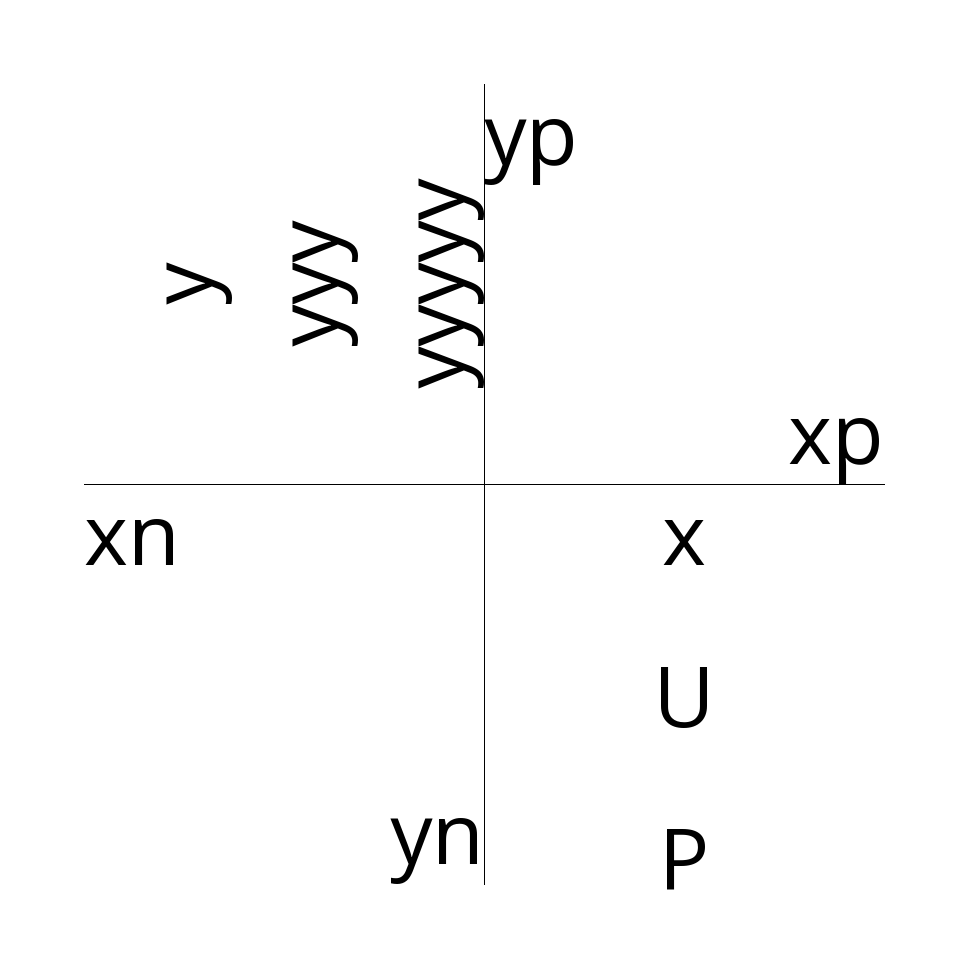
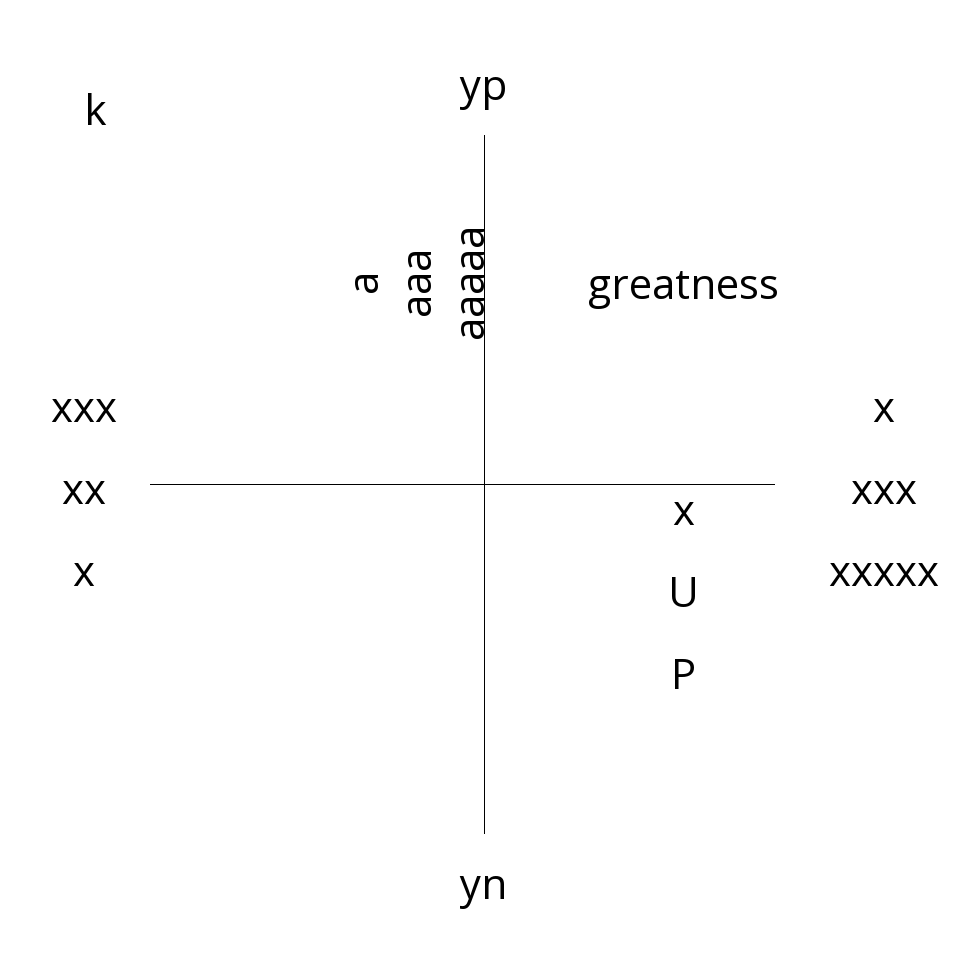
dynamic line positions

diff --git a/main.py b/main.py
@@ -153,7 +153,7 @@ async def line_PIL(xyxy, margin, PILdraw):
                       fill=FONT_COLOR)
 
 
-async def text_PIL(xy, text, wrapWidth, anchor, font, margin, PILimage):
+async def text_PIL(xy, text, wrapSpan, anchor, font, margin, PILimage):
     async def text_PIL_base(xy, text, font, margin):
         with Pilmoji(PILimage) as pilmoji:
             pilmoji.text((int(xy[0]) + margin, int(xy[1]) + margin),
@@ -163,30 +163,31 @@ async def text_PIL(xy, text, wrapWidth, anchor, font, margin, PILimage):
 
     # Initialize lists to hold the wrapped lines and their heights
     wrappedLines = []
-    lineHeights = []
-    lineWidths = []
+    lineDists = []
+    lineSpans = []
+
+    (getspan, getdist) = {'h': (getw, geth), 'v': (geth, getw)}[anchor[0]]
 
     async def appendwrap(text):
+        lineDists.append(await getdist(text, font))
+        lineSpans.append(await getspan(text, font))
         wrappedLines.append(text)
-        lineHeights.append(await geth(text, font))
-        lineWidths.append(await getw(text, font))
 
-    accumulatedWidth = 0
+    span = 0
     lasti = 0
     for i in range(len(text)):
-
         if text[i] == '\n':
             await appendwrap(text[lasti:i].strip("\n").strip(" "))
             await appendwrap('\n')
             lasti = i + 1
-            accumulatedWidth = 0
+            span = 0
 
-        elif accumulatedWidth + await getw(text[i], font) < wrapWidth:
-            accumulatedWidth += await getw(text[i], font)
+        elif span + await getspan(text[i], font) < wrapSpan:
+            span += await getspan(text[i], font)
 
         else:
             # If there's only one word on the line, wrap the line before this character
-            accumulatedWidth = 0
+            span = 0
             if len(text[lasti:i].strip(" ").split(" ")) < 2:
                 await appendwrap(text[lasti:i].strip(" "))
                 lasti = i
@@ -199,32 +200,30 @@ async def text_PIL(xy, text, wrapWidth, anchor, font, margin, PILimage):
     await appendwrap(text[lasti:].strip(" "))
 
     # Positioning for starting position of first line of text
-    totalheight = sum(lineHeights)
-    totalwidth = sum(lineWidths)
+    totalDist = sum(lineDists)
     x, y = {
         'h-': xy,
-        'h0': (xy[0], xy[1] - totalheight / 2),
-        'h+': (xy[0], xy[1] - totalheight),
+        'h0': (xy[0], xy[1] - totalDist / 2),
+        'h+': (xy[0], xy[1] - totalDist),
         'v-': xy,
-        'v0': (xy[0] - totalwidth / 2, xy[1]),
-        'v+': (xy[0] - totalwidth, xy[1])
+        'v0': (xy[0] - totalDist / 2, xy[1]),
+        'v+': (xy[0] - totalDist, xy[1])
     }[anchor[0] + anchor[2]]
 
     # Positioning for each line of text
     for i in range(len(wrappedLines)):
         await text_PIL_base({
-            'h+': (x, y + sum(lineHeights[:i])),
-            'h0': (x - await getw(wrappedLines[i], font) / 2,
-                   y + sum(lineHeights[:i])),
-            'h-': (x - await getw(wrappedLines[i], font),
-									 y + sum(lineHeights[:i])),
-            'v+': (x + sum(lineWidths[:i]), y),
-            'v0': (x + sum(lineWidths[:i]),
-                   y - await geth(wrappedLines[i], font) / 2),
-            'v-': (x + sum(lineWidths[:i]),
-									 y - await geth(wrappedLines[i], font))
+            'h+': (x, y + sum(lineDists[:i])),
+            'h0': (x - lineSpans[i] / 2, y + sum(lineDists[:i])),
+            'h-': (x - lineSpans[i], y + sum(lineDists[:i])),
+            'v+': (x + sum(lineDists[:i]), y),
+            'v0': (x + sum(lineDists[:i]), y - lineSpans[i] / 2),
+            'v-': (x + sum(lineDists[:i]), y - lineSpans[i])
         }[anchor[0] + anchor[1]], wrappedLines[i], font, margin)
     pass
+    
+    return (max(lineSpans), totalDist)
+
 
 
 ####	PIL interface and helpers END ####
@@ -236,6 +235,10 @@ tbt_OPTIONS = [[
     'x:str', 'y:str', 't:str'
 ], ['fontsize:int', 'margin:int']]
 
+tbt_EXE = [
+    [3, 1, 1, 'CW', 'h00'], [1, 1, 1, 'CW', 'h00'], [1, 3, 1, 'CW', 'h00'], [3, 3, 1, 'CW', 'h00'], [4, 2, 1, 'CW', 'h00'], [0, 2, 1, 'CW', 'h00'], [2, 0, 1, 'CW', 'h00'], [2, 4, 1, 'CW', 'h00'], [3, 2, 0, 'CW', 'h0-'], [2, 1, 0, 'CH', 'v0+'], [0, 0, 1, 'CW', 'h+-']
+]
+
 
 async def tbt_tofile(infras):
     infras[1] = [await typedispatchstrict(item) for item in infras[1]]
@@ -246,9 +249,9 @@ async def tbt_tofile(infras):
         infras[1][0], infras[1][1])
 
     # interfaces
-    async def text(xy, text, wrapWidth, anchor, font=font):
+    async def text(xy, text, wrapSpan, anchor, font=font):
         if (text):
-            await text_PIL(xy, str(text), wrapWidth, anchor,
+            return await text_PIL(xy, str(text), wrapSpan, anchor,
                            font90 if anchor[0] == "v" else font, infras[1][1],
                            PILimage)
 
@@ -257,8 +260,8 @@ async def tbt_tofile(infras):
             await line_PIL(xyxy, infras[1][1], PILdraw)
 
     # macros
-    def C44(x, y):
-        return (CW(x, 4), CH(y, 4))
+    def C44(x, y, bx=0, by=0):
+        return (CW(x, 4, bx), CH(y, 4, by))
 
     def FD2(fit, dir):
         return FITS[fit] * dir(1, 2)
@@ -267,26 +270,19 @@ async def tbt_tofile(infras):
         return any([infras[0][i] for i in list])
 
     # micros
-    def CW(n, d):
-        return WIDTH * n / d
+    def CW(n, d, bias=0):
+        return WIDTH * n / d + bias
 
-    def CH(n, d):
-        return HEIGHT * n / d
+    def CH(n, d, bias=0):
+        return HEIGHT * n / d + bias
 
-    # executions
-    await text(C44(3, 1), infras[0][0], FD2(1, CW), 'h00')
-    await text(C44(1, 1), infras[0][1], FD2(1, CW), 'h00')
-    await text(C44(1, 3), infras[0][2], FD2(1, CW), 'h00')
-    await text(C44(3, 3), infras[0][3], FD2(1, CW), 'h00')
-    await text(C44(4, 2), infras[0][4], FD2(1, CW), 'h-+')
-    await text(C44(0, 2), infras[0][5], FD2(1, CW), 'h+-')
-    await text(C44(2, 0), infras[0][6], FD2(1, CW), 'h+-')
-    await text(C44(2, 4), infras[0][7], FD2(1, CW), 'h-+')
-    await text(C44(3, 2), infras[0][8], FD2(0, CW), 'h0-')
-    await text(C44(2, 1), infras[0][9], FD2(0, CH), 'v0+')
-    await text(C44(0, 0), infras[0][10], FD2(1, CW), 'h+-')
-    await line(C44(0, 2) + C44(4, 2), DANY([5, 7, 8]))
-    await line(C44(2, 0) + C44(2, 4), DANY([4, 6, 9]))
+    # execution
+    b = []
+    for i, p in enumerate(tbt_EXE):
+        b.append (await text(C44(p[0], p[1]), infras[0][i], FD2(p[2], eval(p[3])), p[4]))
+  
+    await line(C44(0, 2, bx=b[5][0]) + C44(4, 2, bx=-b[4][0]), DANY([4, 5, 8]))
+    await line(C44(2, 0, by=b[6][1]) + C44(2, 4, by=-b[7][1]), DANY([6, 7, 9]))
 
     PILimage.save('tbt.png')
 
